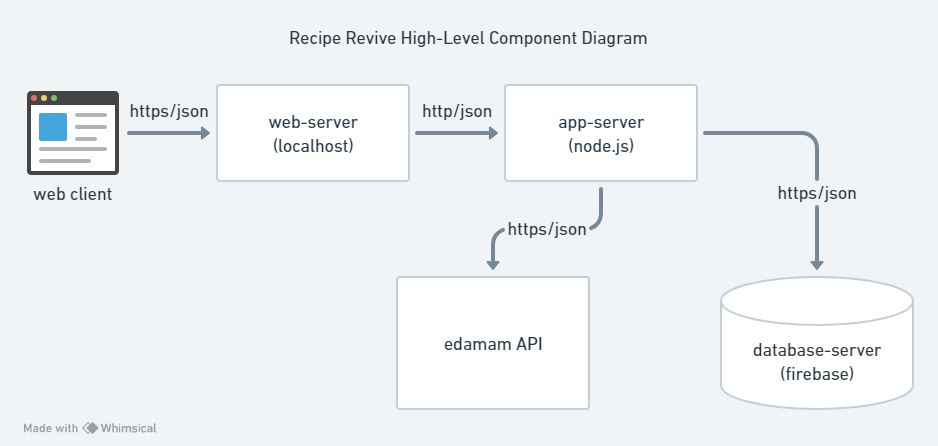
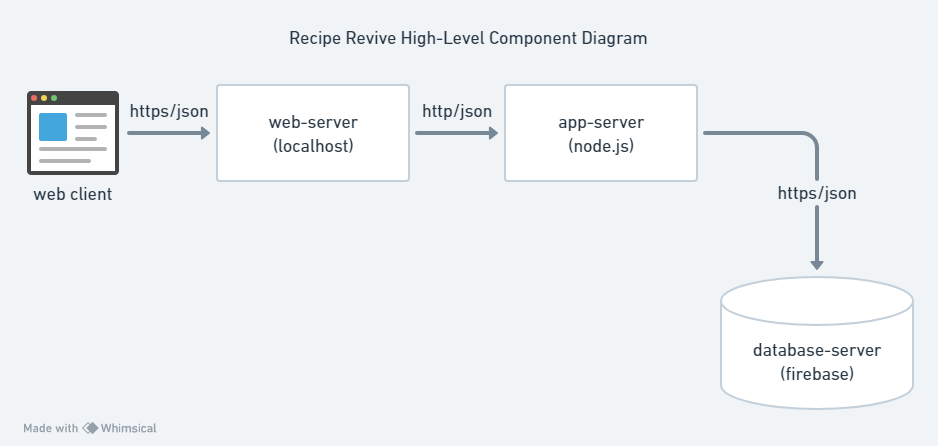
revised component diagram and paragraph

diff --git a/SystemArchitecture.md b/SystemArchitecture.md
@@ -6,10 +6,15 @@ This document describes the overall architecture of the Recipe Revive Applicatio
 
 ![High-level Component Diagram](Recipe_Revive_High-Level_Component_Diagram.png)
 
-In the depicted component diagram, the system comprises several key components. The web client, represented as a rectangle, interacts with the local web server (localhost) using the HTTPS/JSON protocol, ensuring secure data transmission. The web server, in turn, communicates with the app server (Node.js) via HTTP/JSON. This interaction represents the flow of data and requests between the frontend and backend components of the application. The app server, a crucial executable program, connects to the Edamam API with the HTTPS/JSON protocol, ensuring secure and encrypted communication for retrieving recipe-related data. Additionally, the app server communicates with the database server (Firebase) using the HTTPS/JSON protocol, ensuring secure exchanges for storing and retrieving data. 
+In the depicted component diagram, the system comprises several key components. The web client, represented as a rectangle, interacts with the local web server (localhost) using the HTTPS/JSON protocol, ensuring secure data transmission. The web server, in turn, communicates with the app server (Node.js) via HTTP/JSON. This interaction represents the flow of data and requests between the frontend and backend components of the application. Additionally, the app server communicates with the database server (Firebase) using the HTTPS/JSON protocol, ensuring secure exchanges for storing and retrieving data. 
 
 ## ER Diagram
 
 ![Relationship Diagram](Recipe_Revive_Entity_Diagram.png)
 
 In the proposed entity relationship diagram, the system is structured around several key entities representing core aspects of a recipe-sharing application. The central entity, "User," encapsulates user-specific information such as userID, name, email, password, and user picture. This entity forms one-to-many relationships with "SavedRecipe", "CreatedRecipe" and "Recipe" indicating that a user can have multiple saved recipes, created recipes, and contributed recipes. The "Recipe" entity, in turn, establishes one-to-many relationships with "Instruction" and "RecipeIngredient," reflecting the comprehensive details associated with a recipe, including cooking instructions, nutritional information, and ingredient composition. Additionally, the "Recipe" entity fosters one-to-many relationships with "SavedRecipe" and "CreatedRecipe," highlighting that each recipe can be saved and created by multiple users. The "Unit" and "Ingredient" entities contribute to the system by defining units of measurement and individual ingredients, respectively, forming one-to-many relationships with the "RecipeIngredient" entity. 
+
+## Flow Diagram
+
+![Flow Diagram](flow_diagram.jpg)
+
